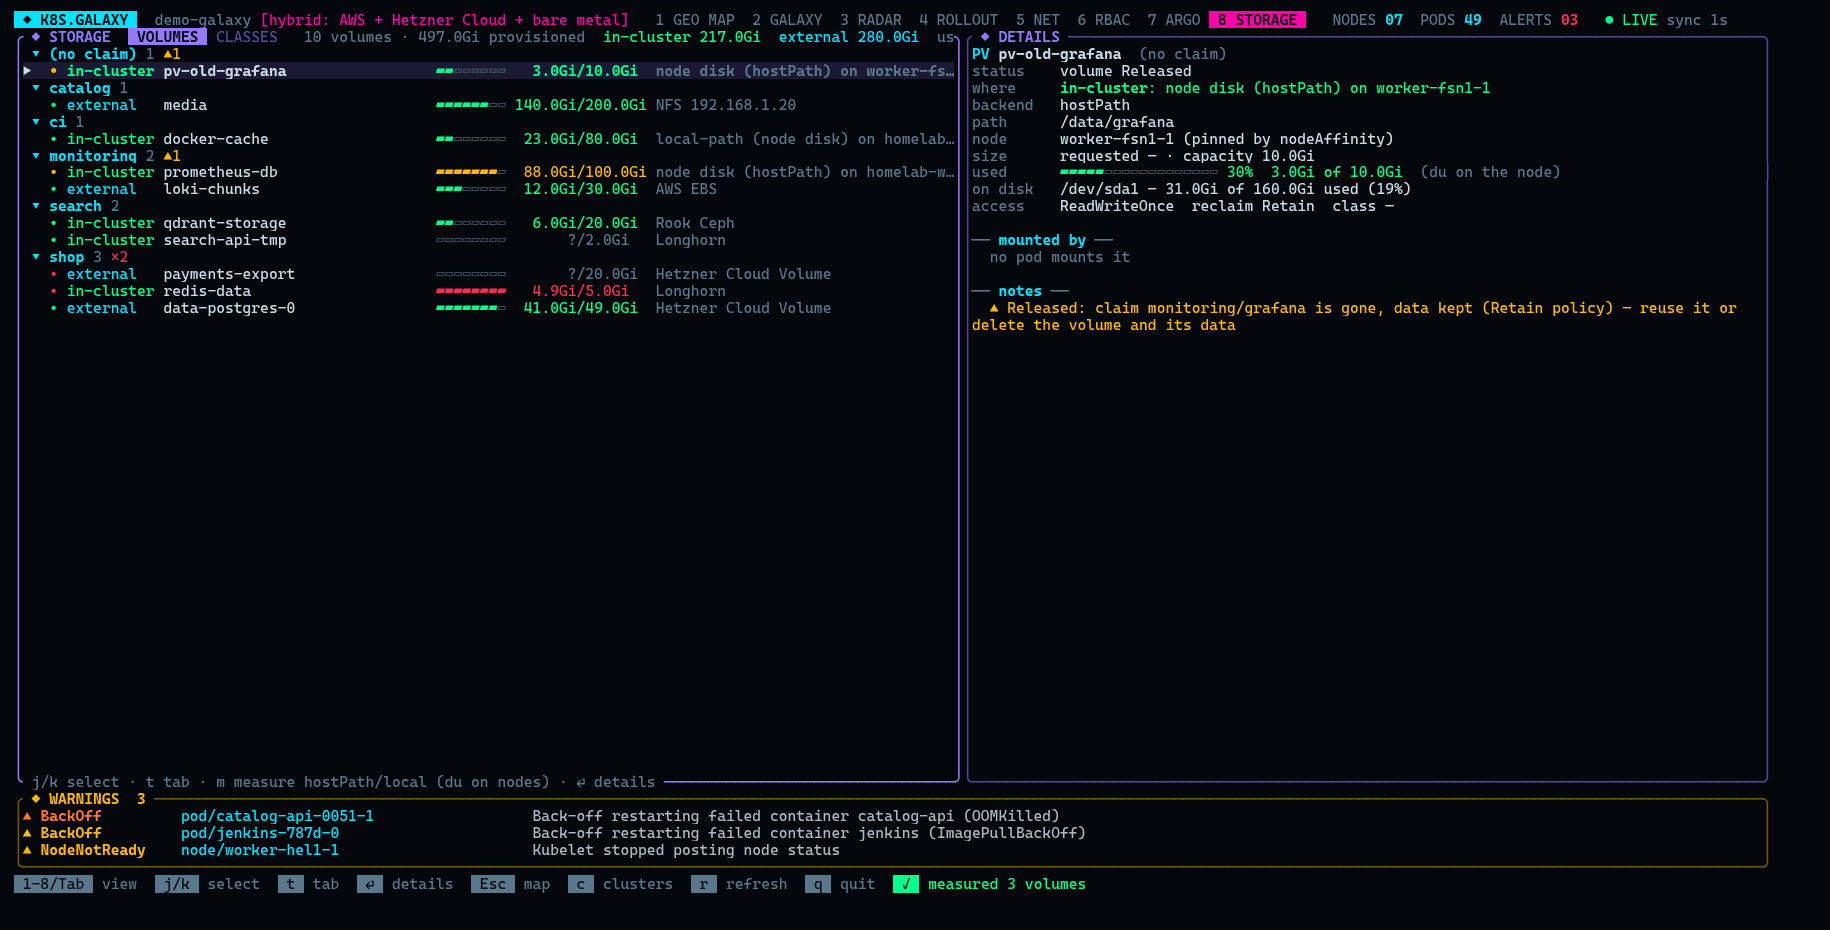
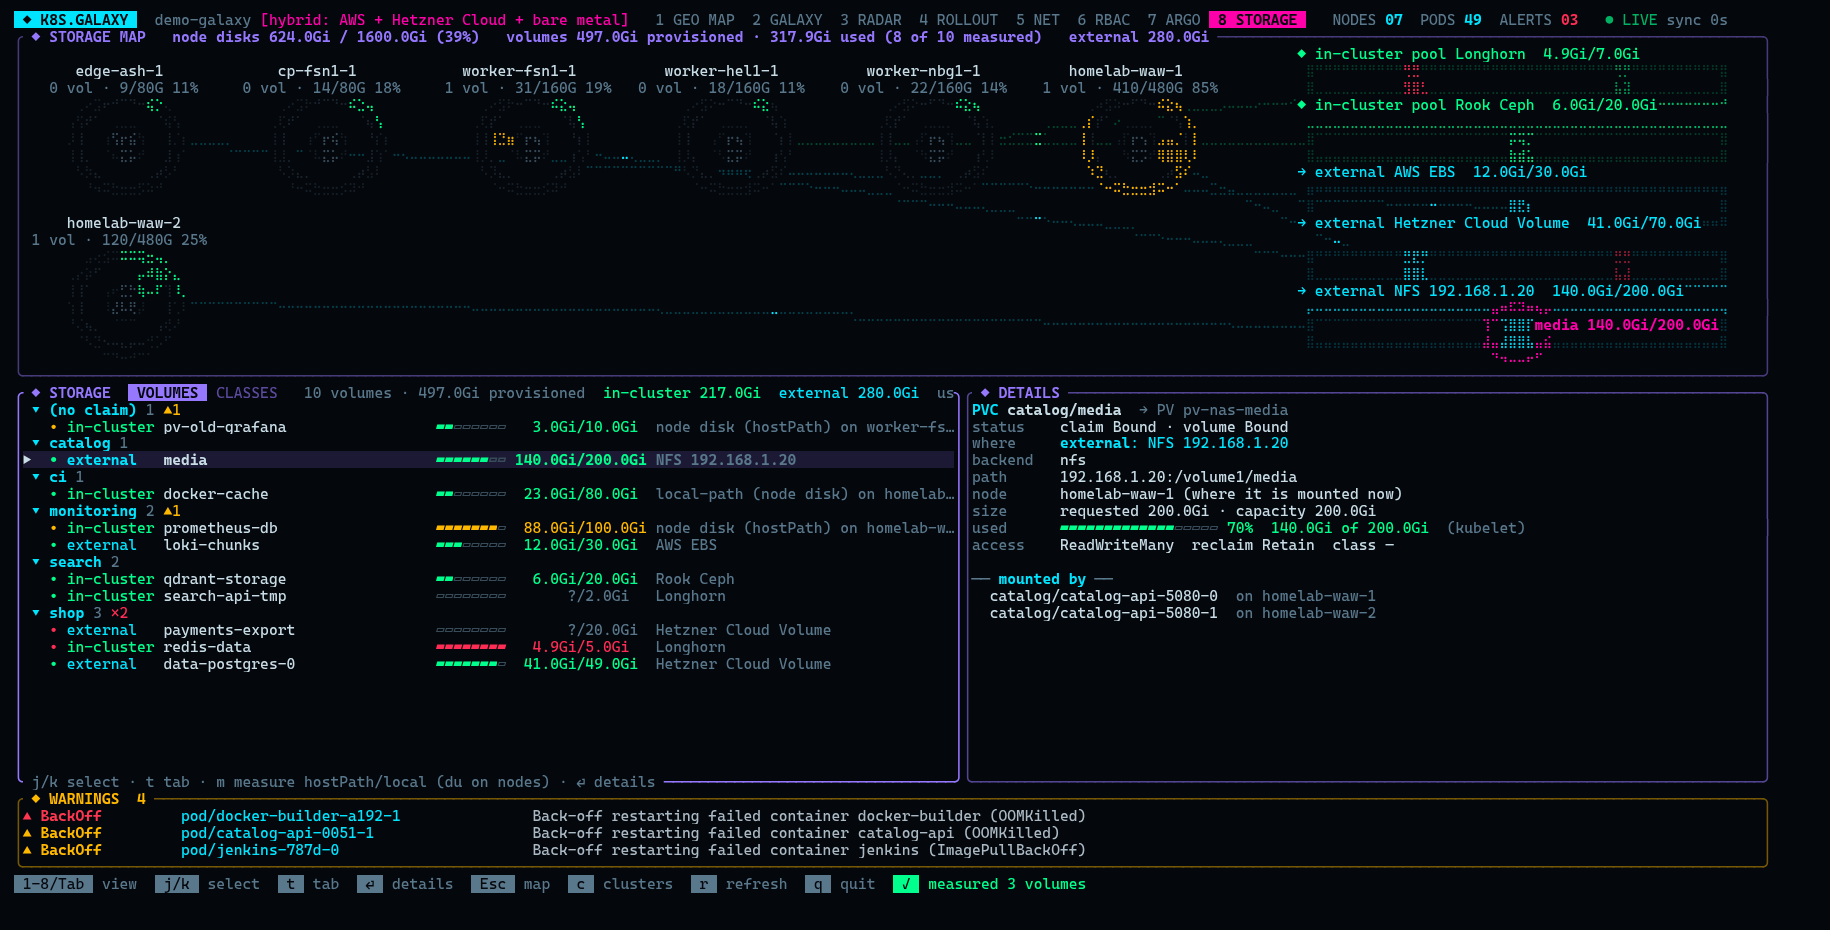
Storage map: node disks, volumes and external storage
The storage view opens with a map: each node is a disk platter with its
disk usage as an arc, the volumes on its disk orbit it as planets sized by
capacity and filled by usage. In-cluster pools (Longhorn, Ceph...) and
external services (NFS, cloud volumes...) are blocks on the right, linked
to the nodes whose pods mount their volumes. The title totals node disks,
provisioned/used volume space and external storage; the volume selected
in the list is highlighted.

diff --git a/src/ui/storage_map.rs b/src/ui/storage_map.rs
@@ -1,0 +1,267 @@
+//! Storage map: every node is a disk platter with a usage arc (kubelet), the volumes pinned to it
+//! orbit as planets — size by capacity, filled by usage. Storage outside the nodes (NFS, cloud
+//! volumes) and distributed in-cluster pools (Longhorn, Ceph…) are blocks on the right, linked to
+//! the nodes whose pods mount their volumes.
+
+use std::collections::BTreeMap;
+use std::f64::consts::TAU;
+
+use ratatui::Frame;
+use ratatui::layout::Rect;
+use ratatui::style::{Modifier, Style};
+use ratatui::symbols::Marker;
+use ratatui::text::{Line as TLine, Span};
+use ratatui::widgets::canvas::{Canvas, Circle, Line as CLine, Points, Rectangle};
+
+use super::ops::{location_rgb, used_of};
+use super::{frame, health_rgb, square_bounds};
+use crate::app::{App, OpsRef};
+use crate::fx::{self, Rgb, pulse};
+use crate::metrics::fmt_mem;
+use crate::storage::{Location, VolumeInfo};
+
+const GIB: f64 = (1u64 << 30) as f64;
+
+fn fill_rgb(frac: f64) -> Rgb {
+    if frac >= 0.95 {
+        fx::RED
+    } else if frac >= 0.85 {
+        fx::AMBER
+    } else {
+        fx::GREEN
+    }
+}
+
+/// Volumes whose data is on one node's own disk.
+fn node_local(v: &VolumeInfo) -> bool {
+    matches!(v.kind.as_str(), "hostPath" | "local") || v.location.what().contains("node disk")
+}
+
+/// Where a volume is drawn: on a node, or on a storage host block.
+enum Home {
+    Node(String),
+    Host(String),
+    Nowhere,
+}
+
+fn home(v: &VolumeInfo) -> Home {
+    if node_local(v) {
+        return match v.measure_node() {
+            Some(n) => Home::Node(n),
+            None => Home::Nowhere,
+        };
+    }
+    match &v.location {
+        Location::Unknown => Home::Nowhere,
+        l => Home::Host(l.what().to_string()),
+    }
+}
+
+/// A planet: filled up to the used fraction (concentric rings from the centre), outline by health.
+fn planet(ctx: &mut ratatui::widgets::canvas::Context, x: f64, y: f64, r: f64, used: Option<f64>, outline: Rgb) {
+    if let Some(frac) = used {
+        let color = fill_rgb(frac);
+        let fill_r = r * frac.clamp(0.0, 1.0);
+        let mut k = 0.35;
+        while k < fill_r {
+            ctx.draw(&Circle { x, y, radius: k, color: fx::fade(color, 0.85) });
+            k += 0.45;
+        }
+    }
+    ctx.draw(&Circle { x, y, radius: r, color: fx::fade(outline, if used.is_some() { 0.9 } else { 0.55 }) });
+}
+
+pub fn draw(f: &mut Frame, area: Rect, app: &App) {
+    let t = app.t();
+    let (w, h) = square_bounds(area);
+    let st = &app.snap.storage;
+    let selected = match app.selected_ops() {
+        Some(OpsRef::Volume(v)) => Some((v.group(), v.name())),
+        _ => None,
+    };
+
+    // Storage hosts: distributed in-cluster pools first, then external services.
+    let mut hosts: BTreeMap<(bool, String), Vec<&VolumeInfo>> = BTreeMap::new();
+    let mut on_node: BTreeMap<String, Vec<&VolumeInfo>> = BTreeMap::new();
+    for v in &st.volumes {
+        match home(v) {
+            Home::Node(n) => on_node.entry(n).or_default().push(v),
+            Home::Host(hst) => hosts.entry((matches!(v.location, Location::External(_)), hst)).or_default().push(v),
+            Home::Nowhere => {}
+        }
+    }
+
+    let nodes: Vec<String> = if app.snap.nodes.is_empty() {
+        st.node_fs.keys().cloned().collect()
+    } else {
+        app.snap.nodes.iter().map(|n| n.name.clone()).collect()
+    };
+    let zone_w = if hosts.is_empty() { w } else { w * 0.70 };
+    let n = nodes.len().max(1);
+    // Grid shaped to the zone, like the galaxy.
+    let cols = ((n as f64 * zone_w / h).sqrt().ceil() as usize).clamp(1, n);
+    let rows = n.div_ceil(cols);
+    let (cw, ch) = (zone_w / cols as f64, h / rows as f64);
+    let r = (cw * 0.36).min(ch * 0.30).max(3.0);
+    // Leave room under the top edge for the two label lines.
+    let center = |i: usize| (cw * ((i % cols) as f64 + 0.5), h - ch * ((i / cols) as f64 + 0.5) - 2.0);
+    let label_chars = (cw - 2.0).max(8.0) as usize;
+    let cut = |s: String| if s.chars().count() > label_chars { format!("{}…", s.chars().take(label_chars - 1).collect::<String>()) } else { s };
+
+    // One size scale for every planet: the biggest volume gets ~a quarter of a node's radius.
+    let max_gib = st.volumes.iter().filter_map(|v| v.size()).max().unwrap_or(GIB as i64) as f64 / GIB;
+    let pr = |v: &VolumeInfo| {
+        let gib = v.size().unwrap_or(0) as f64 / GIB;
+        (0.7 + (gib.max(0.0).sqrt() / max_gib.sqrt().max(1e-9)) * (r * 0.24 - 0.7)).clamp(0.7, r * 0.26)
+    };
+    let used_frac = |v: &VolumeInfo| used_of(app, v).filter(|(_, size, _)| *size > 0).map(|(u, s, _)| u as f64 / s as f64);
+
+    // Planet positions, computed once for drawing, links and the selection.
+    let mut placed: Vec<(&VolumeInfo, f64, f64)> = vec![];
+    for (i, node) in nodes.iter().enumerate() {
+        let (cx, cy) = center(i);
+        let list = on_node.get(node).map(Vec::as_slice).unwrap_or(&[]);
+        for (k, v) in list.iter().enumerate() {
+            let a = k as f64 / list.len() as f64 * TAU + t * 0.08 + i as f64;
+            placed.push((v, cx + r * 0.62 * a.cos(), cy + r * 0.62 * a.sin()));
+        }
+    }
+    let host_x = w * 0.74;
+    let host_w = w * 0.24;
+    let gap = 3.0;
+    let host_h = if hosts.is_empty() { 0.0 } else { ((h - 4.0 - gap * (hosts.len() as f64 - 1.0)) / hosts.len() as f64).clamp(4.0, 12.0) };
+    let mut boxes: Vec<(&(bool, String), f64, f64)> = vec![]; // key, x, y (bottom)
+    for (j, (key, list)) in hosts.iter().enumerate() {
+        let y = h - 2.0 - (j as f64 + 1.0) * host_h - j as f64 * gap;
+        boxes.push((key, host_x, y));
+        let slots = list.len().max(1) as f64;
+        for (k, v) in list.iter().enumerate() {
+            placed.push((v, host_x + host_w * (k as f64 + 0.5) / slots, y + host_h * 0.45));
+        }
+    }
+
+    // Totals for the title.
+    let disk_used: i64 = st.node_fs.values().map(|d| d.used).sum();
+    let disk_cap: i64 = st.node_fs.values().map(|d| d.capacity).sum();
+    let provisioned: i64 = st.volumes.iter().filter(|v| v.pv.is_some()).filter_map(|v| v.size()).sum();
+    let used: i64 = st.volumes.iter().filter_map(|v| used_of(app, v).map(|u| u.0)).sum();
+    let known = st.volumes.iter().filter(|v| used_of(app, v).is_some()).count();
+    let external: i64 = st.volumes.iter().filter(|v| v.pv.is_some() && matches!(v.location, Location::External(_))).filter_map(|v| v.size()).sum();
+    let title = format!(
+        "STORAGE MAP   node disks {} / {} ({:.0}%)   volumes {} provisioned · {} used ({known} of {} measured)   external {}",
+        fmt_mem(disk_used),
+        fmt_mem(disk_cap),
+        disk_used as f64 * 100.0 / disk_cap.max(1) as f64,
+        fmt_mem(provisioned),
+        fmt_mem(used),
+        st.volumes.len(),
+        fmt_mem(external),
+    );
+
+    let canvas = Canvas::default()
+        .block(frame(&title, (150, 120, 255), false))
+        .background_color(fx::c(fx::BG))
+        .marker(Marker::Braille)
+        .x_bounds([0.0, w])
+        .y_bounds([0.0, h])
+        .paint(|ctx| {
+            // Links: node mounting an external/pool volume → its host, packets flowing.
+            for (v, px, py) in &placed {
+                if !matches!(home(v), Home::Host(_)) {
+                    continue;
+                }
+                let color = location_rgb(&v.location);
+                for (_, node) in &v.mounted_by {
+                    let Some(i) = nodes.iter().position(|n| n == node) else { continue };
+                    let (nx, ny) = center(i);
+                    let (dx, dy) = (px - nx, py - ny);
+                    let d = (dx * dx + dy * dy).sqrt().max(1e-6);
+                    let (sx0, sy0) = (nx + dx / d * (r + 1.0), ny + dy / d * (r + 1.0));
+                    ctx.draw(&CLine::new(sx0, sy0, *px, *py, fx::fade(color, 0.25)));
+                    for p in 0..2 {
+                        let s = (t * 0.3 + p as f64 * 0.5 + fx::unit(fx::hash(&v.name()))).fract();
+                        ctx.draw(&Points { coords: &[(sx0 + (px - sx0) * s, sy0 + (py - sy0) * s)], color: fx::c(color) });
+                    }
+                }
+            }
+            ctx.layer();
+
+            // Nodes: platter rings, hub, disk usage arc (clockwise from the top).
+            for (i, node) in nodes.iter().enumerate() {
+                let (cx, cy) = center(i);
+                ctx.draw(&Circle { x: cx, y: cy, radius: r * 0.92, color: fx::fade(fx::STEEL, 0.25) });
+                ctx.draw(&Circle { x: cx, y: cy, radius: r * 0.35, color: fx::fade(fx::STEEL, 0.18) });
+                ctx.draw(&Circle { x: cx, y: cy, radius: 0.8, color: fx::fade(fx::STEEL, 0.6) });
+                if let Some(d) = st.node_fs.get(node) {
+                    let frac = d.used as f64 / d.capacity.max(1) as f64;
+                    let pts = 96;
+                    let lit = (frac.clamp(0.0, 1.0) * pts as f64).round() as usize;
+                    let ring: Vec<_> = (0..pts)
+                        .map(|j| {
+                            let a = std::f64::consts::FRAC_PI_2 - j as f64 / pts as f64 * TAU;
+                            (cx + (r + 0.6) * a.cos(), cy + (r + 0.6) * a.sin())
+                        })
+                        .collect();
+                    ctx.draw(&Points { coords: &ring[lit..], color: fx::fade(fx::STEEL, 0.2) });
+                    let rgb = fill_rgb(frac);
+                    ctx.draw(&Points { coords: &ring[..lit], color: fx::fade(rgb, if frac > 0.85 { 0.6 + 0.4 * pulse(t, 0.8) } else { 0.95 }) });
+                }
+            }
+
+            // Storage hosts.
+            for ((external, _), x, y) in &boxes {
+                let color = if *external { fx::CYAN } else { fx::GREEN };
+                ctx.draw(&Rectangle { x: *x, y: *y, width: host_w, height: host_h, color: fx::fade(color, 0.7) });
+                ctx.draw(&Rectangle { x: x + 0.6, y: y + 0.6, width: host_w - 1.2, height: host_h - 1.2, color: fx::fade(color, 0.2) });
+            }
+
+            // Volumes.
+            for (v, x, y) in &placed {
+                let outline = match v.health(app.measurement(v)) {
+                    crate::model::Health::Ok => location_rgb(&v.location),
+                    h => health_rgb(h),
+                };
+                planet(ctx, *x, *y, pr(v), used_frac(v), outline);
+                if selected.as_ref().is_some_and(|(g, n)| *g == v.group() && *n == v.name()) {
+                    ctx.draw(&Circle { x: *x, y: *y, radius: pr(v) + 1.2 + pulse(t, 0.8), color: fx::c(fx::MAGENTA) });
+                }
+            }
+            ctx.layer();
+
+            // Labels last.
+            for (i, node) in nodes.iter().enumerate() {
+                let (cx, cy) = center(i);
+                let count = on_node.get(node).map_or(0, Vec::len);
+                let name = cut(node.clone());
+                let disk = cut(match st.node_fs.get(node) {
+                    Some(d) => format!(
+                        "{count} vol · {:.0}/{:.0}G {:.0}%",
+                        d.used as f64 / GIB,
+                        d.capacity as f64 / GIB,
+                        d.used as f64 * 100.0 / d.capacity.max(1) as f64
+                    ),
+                    None => format!("{count} vol"),
+                });
+                let top = cy + r + 1.5;
+                ctx.print(cx - name.chars().count() as f64 / 2.0, top + 2.0, Span::styled(name, Style::new().fg(fx::c((200, 220, 230)))));
+                ctx.print(cx - disk.chars().count() as f64 / 2.0, top, Span::styled(disk, Style::new().fg(fx::c(fx::STEEL))));
+            }
+            for ((external, name), x, y) in &boxes {
+                let list = &hosts[&(*external, name.clone())];
+                let size: i64 = list.iter().filter_map(|v| v.size()).sum();
+                let used: i64 = list.iter().filter_map(|v| used_of(app, v).map(|u| u.0)).sum();
+                let label = format!("{} {name}  {}/{}", if *external { "→ external" } else { "◆ in-cluster pool" }, fmt_mem(used), fmt_mem(size));
+                ctx.print(*x, y + host_h + 1.6, Span::styled(label, Style::new().fg(fx::c(if *external { fx::CYAN } else { fx::GREEN }))));
+            }
+            if let Some((v, x, y)) = placed.iter().find(|(v, _, _)| selected.as_ref().is_some_and(|(g, n)| *g == v.group() && *n == v.name())) {
+                let usage = match used_of(app, v) {
+                    Some((u, s, _)) => format!("{}/{}", fmt_mem(u), fmt_mem(s)),
+                    None => format!("?/{}", v.size().map(fmt_mem).unwrap_or_default()),
+                };
+                let label = format!("{} {usage}", v.name());
+                let lx = (x + pr(v) + 2.0).min(w - label.chars().count() as f64 - 1.0).max(0.0);
+                ctx.print(lx, *y, TLine::from(Span::styled(label, Style::new().fg(fx::c(fx::MAGENTA)).add_modifier(Modifier::BOLD))));
+            }
+        });
+    f.render_widget(canvas, area);
+}

diff --git a/src/ui/ops.rs b/src/ui/ops.rs
@@ -70,6 +70,14 @@ fn bar(done: i32, total: i32, width: usize, rgb: Rgb, t: f64, moving: bool) -> V
 }
 
 pub fn draw(f: &mut Frame, area: Rect, app: &App) {
+    // Storage gets its map above the list.
+    let area = if app.view == View::Storage {
+        let [map, rest] = Layout::vertical([Constraint::Percentage(46), Constraint::Fill(1)]).areas(area);
+        super::storage_map::draw(f, map, app);
+        rest
+    } else {
+        area
+    };
     let [list_area, detail_area] = Layout::horizontal([Constraint::Percentage(54), Constraint::Fill(1)]).areas(area);
     list(f, list_area, app);
     detail(f, detail_area, app);
@@ -244,7 +252,7 @@ fn summary(app: &App) -> Vec<Span<'static>> {
     }
 }
 
-fn location_rgb(l: &Location) -> Rgb {
+pub(super) fn location_rgb(l: &Location) -> Rgb {
     match l {
         Location::InCluster(_) => fx::GREEN,
         Location::External(_) => fx::CYAN,
@@ -253,7 +261,7 @@ fn location_rgb(l: &Location) -> Rgb {
 }
 
 /// Used / size of a volume: kubelet stats first, then a `du` measurement.
-fn used_of(app: &App, v: &VolumeInfo) -> Option<(i64, i64, &'static str)> {
+pub(super) fn used_of(app: &App, v: &VolumeInfo) -> Option<(i64, i64, &'static str)> {
     if let Some(u) = v.usage {
         return Some((u.used, if u.capacity > 0 { u.capacity } else { v.size().unwrap_or(0) }, "kubelet"));
     }

diff --git a/src/ui/mod.rs b/src/ui/mod.rs
@@ -3,6 +3,7 @@ mod labels;
 mod map;
 pub mod ops;
 mod picker;
+mod storage_map;
 mod panels;
 mod radar;
 

diff --git a/README.md b/README.md
@@ -35,8 +35,8 @@ Live Hetzner cluster unless marked *demo* (`--demo`, for what that cluster does 
 | ![RBAC](docs/screenshots/rbac.png) **RBAC** — subjects rated by risk | ![Argo CD](docs/screenshots/argo.png) **Argo CD** — sync, health, drift, resources |
 | ![Rollback: pick a revision](docs/screenshots/rollback-picker.png) **Rollback** — pick any kept revision | ![Rollback confirmation](docs/screenshots/rollback-confirm.png) **Rollback warnings** — Argo CD self-heal would undo it |
 | ![StatefulSet rollback](docs/screenshots/rollback-statefulset.png) **StatefulSet rollback** — via ControllerRevisions | ![Metrics](docs/screenshots/demo-metrics.png) **Metrics** (*demo*) — load arcs, a node running hot |
-| ![Storage](docs/screenshots/storage.png) **Storage** — hostPath volumes pinned to nodes, Released ones flagged | ![Storage, measured](docs/screenshots/demo-storage.png) **Storage** (*demo*) — in-cluster vs external, measured usage |
-| ![Storage, measured on the nodes](docs/screenshots/storage-measured.png) **Storage, measured** — `m`: du on the nodes, a Released volume 20× over its size | |
+| ![Storage](docs/screenshots/storage.png) **Storage** — map of node disks, Released volumes flagged | ![Storage, measured](docs/screenshots/demo-storage.png) **Storage** (*demo*) — in-cluster pools and external services linked to nodes |
+| ![Storage, measured on the nodes](docs/screenshots/storage-measured.png) **Storage, measured** — `m`: du on the nodes, volumes filled by usage | |
 
 ## Run
 
@@ -161,7 +161,14 @@ The same notes stay visible in the rollout details. `--dry-run` sends them as se
 
 ## Storage
 
-`8 STORAGE` lists every PersistentVolumeClaim by namespace, plus volumes nobody claims (`(no claim)`), and a
+`8 STORAGE` opens with a **storage map**: every node is a disk platter with its disk usage as an arc (from the
+kubelet), the volumes kept on its disk orbit it as planets — sized by capacity, filled by usage. Storage that is
+not on a node's own disk is drawn as blocks on the right — distributed in-cluster pools (Longhorn, Rook Ceph…) and
+external services (NFS, cloud volumes…) — each volume linked, with packets flowing, to the nodes whose pods mount
+it. The title sums it up: node disks used/total, volumes provisioned/used, how much is external. The volume
+selected in the list below is highlighted on the map.
+
+Below the map, every PersistentVolumeClaim by namespace, plus volumes nobody claims (`(no claim)`), and a
 `CLASSES` tab. For each volume:
 
 - **where the data lives** — *in-cluster*: node disks (`hostPath`, `local`, local-path, TopoLVM, DirectPV…) or a
